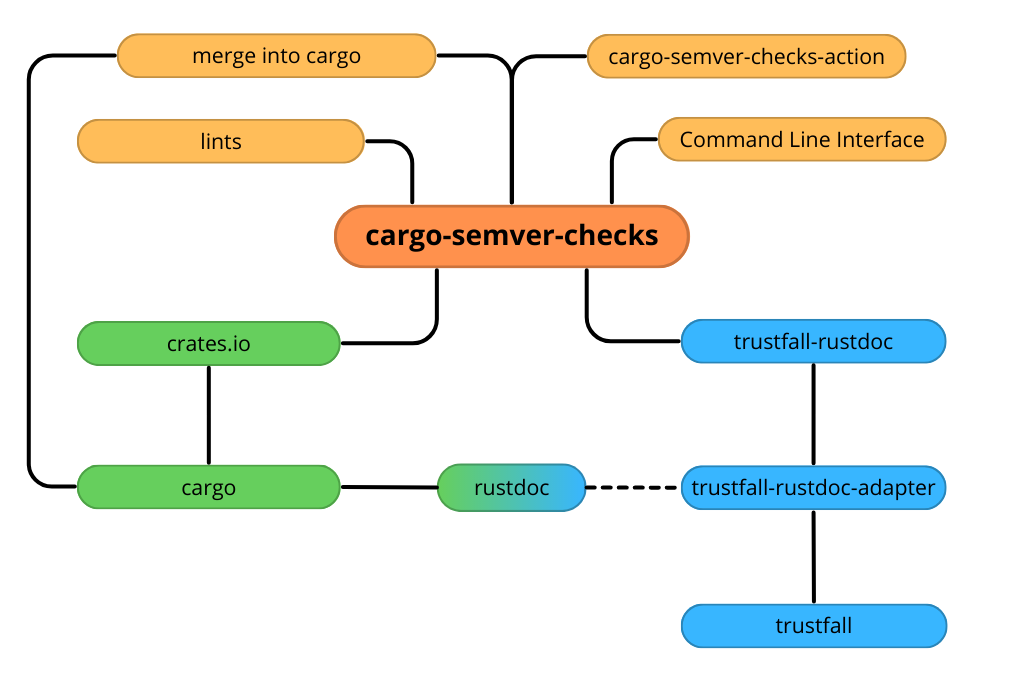
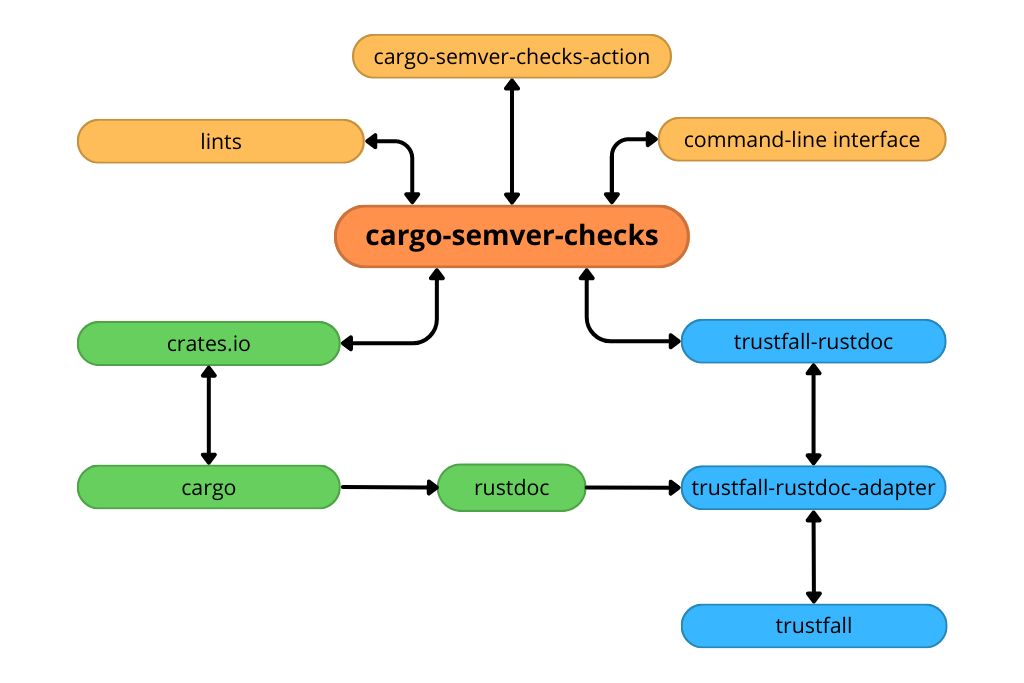
Theory adjustments (#45)
* Add the missing bullet list

* rework the diagram

* one more TODO

* lowercase letters

diff --git a/thesis-en.tex b/thesis-en.tex
@@ -532,12 +532,6 @@ which often prevented the community from adopting the tool into their workflow:
 
 \section{Project structure}\label{r:section_project_structure}
 
-\begin{figure}[h]
-	\centering
-	\includegraphics[width=\linewidth]{project-structure-diagram.png}
-	\caption{Diagram of the project structure}
-\end{figure}
-
 In order to check two versions of a crate for semver violations, the tool needs a consistent method
 for generating the data to be compared. This is achieved by using rustdoc (from the official
 Rust toolchain) to generate the documentation for Rust projects. However, the documentation itself
@@ -556,7 +550,7 @@ are called \texttt{lints} inside the project (more detail in section
 Despite being the project's core component, new lints are not the only thing we developed. In total
 there are four repositories that we have been actively contributing to for the last few months:
 \begin{itemize}
-	\item \textbf{cargo-semver-checks} -- a CLI (Command Line Interface) tool that runs the lints
+	\item \textbf{cargo-semver-checks} -- a CLI (command-line interface) tool that runs the lints
 		(Trustfall queries),
 	\item \textbf{trustfall-rustdoc-adapter} -- implements the Trustfall interface for one specific
 		rustdoc version,
@@ -564,6 +558,29 @@ there are four repositories that we have been actively contributing to for the l
 		the currently used rustdoc version,
 	\item \textbf{cargo-semver-checks-action} -- the tool in form of a GitHub Action that can
 	    be added to GitHub repositories.
+\end{itemize}
+
+\begin{figure}[h]
+	\centering
+	\includegraphics[width=\linewidth]{project-structure-diagram.png}
+	\caption{Diagram of the project structure.}
+\end{figure}
+
+% TODO -- merge this as-is, I will add the ref-links in a separate PR once this is part of main so
+%		  that they will actually work in the PR.
+
+To learn more about the project's individual components present in the diagram, see:
+\begin{itemize}
+	\item cargo-semver-checks -- chapters \ref{r:chapter_vision} and \ref{r:chapter_implementation},
+	\item lints -- section \ref{},
+	\item command-line interface -- section \ref{},
+	\item cargo-semver-checks-action -- section \ref{},
+	\item cargo -- section \ref{},
+	\item crates.io -- section \ref{},
+	\item rustdoc -- section \ref{},
+	\item trustfall -- section \ref{},
+	\item trustfall-rustdoc-adapter -- section \ref{},
+	\item trustfall-rustdoc -- section \ref{}.
 \end{itemize}
 
 \section{cargo-semver-checks}\label{r:section_cargo_semver_checks}
@@ -606,6 +623,8 @@ the following fields:
 	\item \texttt{per\_result\_error\_template} -- the name of the item that broke semver and
 	    its exact position in the code.
 \end{itemize}
+
+% TODO -- depending on the final layout, it may be worth it to cut this image in half.
 
 \begin{figure}[h]
 	\centering
